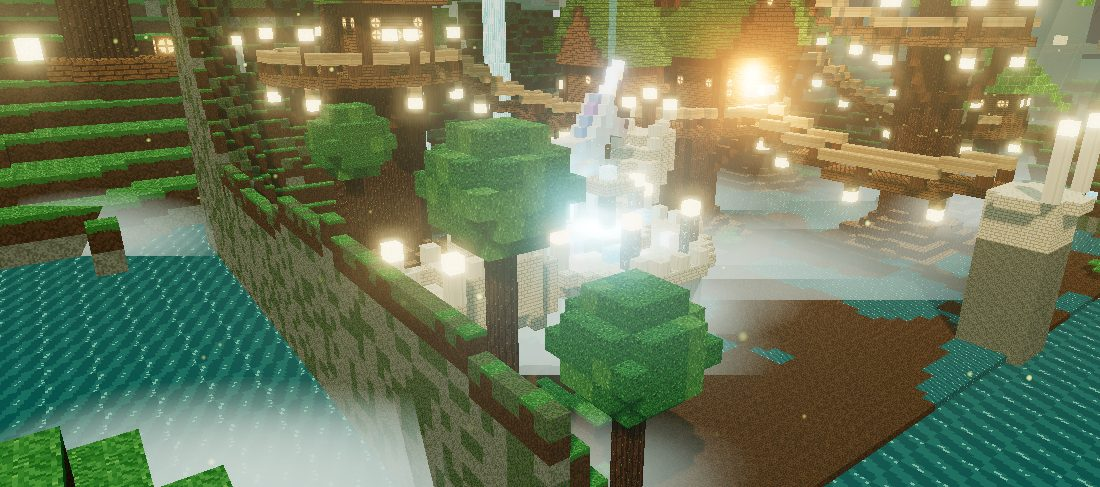
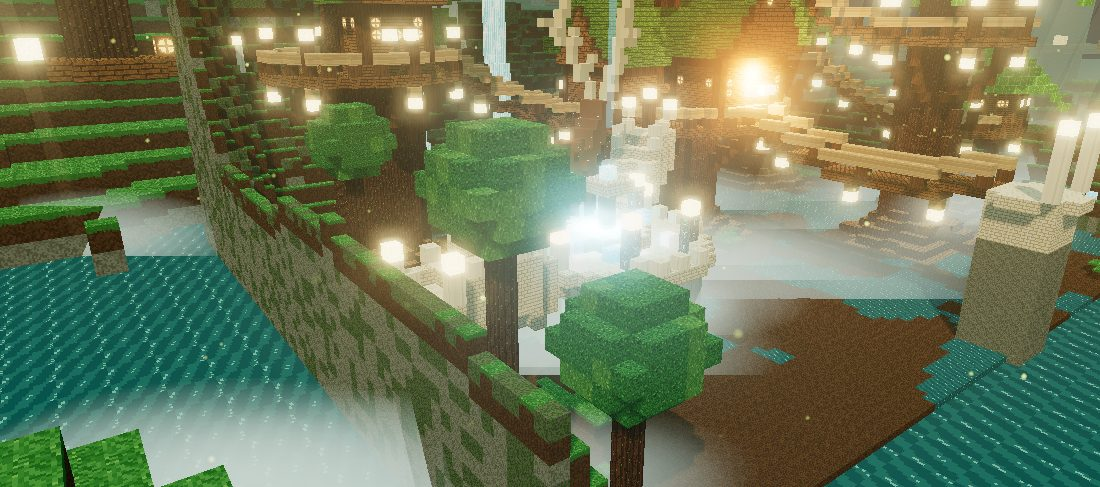
Eiswelt als Frostpalast, Frostfüchse und laufender Eisbär, Hirsch im Wald, kleinerer Adler
- Ice Region neu: Frostpalast mit vielen Spitztürmen, Spitzbogenfenstern und leuchtendem Tor in einer Halle aus riesigen Eissäulen mit Eiszapfen; Kristallkapelle und Eisgarten
- Frostfüchse rennen über den Platz, ein Eisbär läuft durch den Eisgarten
- Woodlands: Hirsch statt Einhorn am Mondbrunnen
- Sky Castle: Adler kleiner, kreist um das Schloss
- Bilder für Eis-, Wald- und Luftwelt erneuert

Claude-Session: https://claude.ai/code/session_01VyrGtGhpmUQ9uCwobRxi57

diff --git a/lernwelt/welten/eis.js b/lernwelt/welten/eis.js
@@ -1,141 +1,166 @@
-// Klasse 10 · Ice Region – verschneite Stadt im Tal: Frostturm, Laternenstadt, Kristallhöhle, Bogenbrücke über den gefrorenen Fluss; dahinter Berge und ein leuchtender Eisring am Himmel
-import { polarBear } from "./tiere.js";
+// Klasse 10 · Ice Region – Frostpalast in einer Halle aus riesigen Eissäulen: spitze Türme, Spitzbögen, Eiszapfen, leuchtendes Tor; Frostfüchse und ein Eisbär laufen herum
+import { polarBear, frostFox } from "./tiere.js";
 export function build(A){
-  const { rand, fbm, vn, pick, set, get, fill, walls, disk, ring, cyl, tube, ball, ellip, dome, cone, line, topAt, terrain, tex, P, noise, stripes, bricks, rings, topEdge, planks, glassT, windowT } = A;
+  const { rand, fbm, pick, set, get, fill, walls, disk, ring, cyl, tube, ball, ellip, dome, cone, line, topAt, terrain, tex, P, noise, stripes, bricks, rings, topEdge } = A;
   const T = {
-    snow: noise(["#F4F8FF","#EAF2FC","#FFFFFF","#E2ECF8"], 6, ["#D4E2F2"]), snowSide: topEdge(["#7A8698","#6C788A","#8692A4"], ["#F4F8FF","#EAF2FC"], 5),
-    rock: noise(["#7A8698","#6C788A","#8692A4","#606C7E"], 6, ["#98A4B4"]), rockS: noise(["#8692A4","#7A8698","#E8F0FA","#6C788A"], 6, ["#FFFFFF"]),
-    ice: noise(["#A8E0FF","#BFE8FF","#96D4F8","#CFEFFF"], 8, ["#FFFFFF"]), riverIce: tex(g=>{ for(let x=0;x<16;x++) for(let y=0;y<16;y++){ const v=Math.sin(x*.5+y*.9)+rand()*.5; P(g,x,y, v>1.2?"#E6F6FF":v>.2?"#9ACCEA":"#7AB4DA"); } }),
-    sbrick: bricks(["#B8BEC8","#AAB0BA","#C4CAD2"], "#6E7684"), sbrickD: bricks(["#5A6070","#4E5464","#646A7A"], "#2E3240"),
-    pillar: stripes(["#C8CED8","#B8BEC8","#D4DAE2"], true),
-    slate: tex(g=>{ for(let y=0;y<16;y++) for(let x=0;x<16;x++) P(g,x,y, y%4===3?"#1E2838":((x+Math.floor(y/4)*4)%8<4?"#34425A":"#2C3A50")); }),
-    snowRoof: tex(g=>{ for(let y=0;y<16;y++) for(let x=0;x<16;x++) P(g,x,y, y<10 ? pick(["#F4F8FF","#FFFFFF","#E6EEF8"]) : (y%3===0?"#1E2838":"#34425A")); }),
-    wood: planks(["#6A4A30","#7A5638","#5E4028"], "#3A2818"), timber: stripes(["#4A3420","#563C26","#40301C"], true),
-    win: windowT("#3A2818","#FFC860","#FFE09A"), winB: windowT("#2E3240","#FFD27A","#FFF0C0"),
-    glow: noise(["#8AF0FF","#5AD8FF","#BFF8FF"], 6, ["#FFFFFF"]), lamp: noise(["#FFE6A8","#FFD27A","#FFF2CC"]),
-    crystal: tex(g=>{ for(let x=0;x<16;x++) for(let y=0;y<16;y++){ const d=(x+y)%6; P(g,x,y, d===0?"#E6FFFF":d<3?"#7FE6FF":"#3AB4F0"); } }),
+    snow: noise(["#F4F8FF","#EAF2FC","#FFFFFF","#E2ECF8"], 6, ["#D4E2F2"]), snowSide: topEdge(["#9AB8D4","#8AAAC8","#A8C4DC"], ["#F4F8FF","#EAF2FC"], 5),
+    frost: noise(["#9AB8D4","#8AAAC8","#A8C4DC","#7E9EBE"], 8, ["#C8DCEE"]),
+    floorIce: tex(g=>{ for(let x=0;x<16;x++) for(let y=0;y<16;y++){ const v=Math.sin(x*.5+y*.9)+rand()*.4; P(g,x,y, (x===0||y===0) ? "#6AA8D8" : v>1.2?"#E6F8FF":v>.2?"#A8D8F4":"#8AC4EC"); } }),
+    iceBrick: bricks(["#BCDDF2","#AED4EE","#C8E4F6","#B4D8F0"], "#5A8ABE", 4, 8),
+    iceTrim: tex(g=>{ for(let y=0;y<16;y++) for(let x=0;x<16;x++) P(g,x,y, y<2||y>13 ? "#2E6AA8" : (x+y)%7===0 ? "#8AD0F4" : pick(["#4A8AC8","#5A9AD4","#3E7EBE"])); }),
+    carved: tex(g=>{ for(let y=0;y<16;y++) for(let x=0;x<16;x++){ const e=x<1||y<1||x>14||y>14, i=x>3&&x<12&&y>3&&y<12; P(g,x,y, e?"#7AAAD0":i?(Math.abs(x-7.5)+Math.abs(y-7.5)<4?"#F0FAFF":"#B8DCF2"):"#D8EEFA"); } }),
+    pillar: tex(g=>{ for(let x=0;x<16;x++){ const c=pick(["#3A8AD8","#4AA0E6","#2A70C0","#5AB8F0","#6ACCF8"]); for(let y=0;y<16;y++) P(g,x,y, rand()<.03 ? "#E6FAFF" : (x%5===2 ? "#9AE6FF" : c)); } }),
+    pillarTop: rings(["#BFF2FF","#6ACCF8","#3A8AD8","#2A70C0"]),
+    spire: tex(g=>{ for(let y=0;y<16;y++) for(let x=0;x<16;x++) P(g,x,y, x%4===0 ? "#E8F8FF" : pick(["#A8DAF6","#9ACEF0","#B8E4FA"])); }),
+    win: tex(g=>{ for(let x=0;x<16;x++) for(let y=0;y<16;y++){ const fr = x<2||x>13||y>14||x===7||x===8||(y<6 && Math.abs(x-7.5)>y*1.3+1); P(g,x,y, fr ? "#2A5A98" : pick(["#8AF0FF","#6AE0FF","#BFF8FF"])); } }),
+    door: tex(g=>{ for(let x=0;x<16;x++) for(let y=0;y<16;y++){ const v=y/16; P(g,x,y, rand()<.1 ? "#FFFFFF" : v<.4?"#DFFCFF":v<.75?"#9AEEFF":"#5AD4FF"); } }),
+    dark: noise(["#1E3E6A","#24487A","#1A365E"], 6, ["#3A6AA0"]),
+    icicle: noise(["#DFF8FF","#BFEFFF","#FFFFFF"], 0), crystal: tex(g=>{ for(let x=0;x<16;x++) for(let y=0;y<16;y++){ const d=(x+y)%6; P(g,x,y, d===0?"#E6FFFF":d<3?"#7FE6FF":"#3AB4F0"); } }),
     violet: tex(g=>{ for(let x=0;x<16;x++) for(let y=0;y<16;y++){ const d=(x+y)%6; P(g,x,y, d===0?"#F2E6FF":d<3?"#C8A0FF":"#9A6AF0"); } }),
-    ringT: tex(g=>{ for(let x=0;x<16;x++) for(let y=0;y<16;y++) P(g,x,y, (x===7||x===8) && y%5<3 ? "#E6FFFF" : pick(["#5AC8F0","#4AB4E8","#6AD4F8"])); }),
-    gold: noise(["#E8C24A","#F5D46A","#D8AE30"]), fur: noise(["#FAFAF4","#F0F0E8","#FFFFFF"]), black: noise(["#1A1E26","#22262E"]), orange: noise(["#FF9A2A","#FFAA40"]),
-    pine: noise(["#2E5A4A","#365E50","#264E40"], 12, ["#F4F8FF","#EAF2FC"]), log: stripes(["#5A4230","#4E3828","#664A36"], true), woolR: noise(["#B83A3A","#C84A4A"])
+    lamp: noise(["#DFFCFF","#BFF4FF","#FFFFFF"]), silver: noise(["#E8F0F8","#D0DCE8","#F4F8FC"])
   };
   const blocks = {
-    snow:{side:T.snowSide, top:T.snow, bottom:T.rock}, snowB:{side:T.snow}, rock:{side:T.rock}, rockS:{side:T.rockS, top:T.snow}, ice:{side:T.ice, alpha:.82}, riverIce:{side:T.riverIce, em:.12},
-    sbrick:{side:T.sbrick}, sbrickD:{side:T.sbrickD}, pillar:{side:T.pillar, top:T.sbrick}, slate:{side:T.slate}, snowRoof:{side:T.snowRoof, top:T.snow},
-    wood:{side:T.wood}, timber:{side:T.timber}, win:{side:T.win, em:.95}, winB:{side:T.winB, em:1.0}, glow:{side:T.glow, em:1.1}, lamp:{side:T.lamp, em:1.25},
-    crystal:{side:T.crystal, em:1.0}, violet:{side:T.violet, em:1.0}, ringB:{side:T.ringT, em:1.1}, gold:{side:T.gold, em:.3},
-    fur:{side:T.fur}, black:{side:T.black}, orange:{side:T.orange}, pine:{side:T.pine}, log:{side:T.log}, woolR:{side:T.woolR}
+    snow:{side:T.snowSide, top:T.snow, bottom:T.frost}, snowB:{side:T.snow}, frost:{side:T.frost}, floorIce:{side:T.frost, top:T.floorIce, em:.08},
+    iceBrick:{side:T.iceBrick}, iceTrim:{side:T.iceTrim}, carved:{side:T.carved, top:T.iceBrick}, pillar:{side:T.pillar, top:T.pillarTop, em:.38},
+    spire:{side:T.spire, top:T.snow}, win:{side:T.win, em:.9}, door:{side:T.door, em:.7}, dark:{side:T.dark},
+    icicle:{side:T.icicle, alpha:.85, em:.35}, crystal:{side:T.crystal, em:1.0}, violet:{side:T.violet, em:1.0}, lamp:{side:T.lamp, em:1.3}, silver:{side:T.silver}
   };
-  const W=92, D=70, RIV=4;
-  const riverX = z => 46 + Math.sin(z*.07)*6;
-  const H = (x,z) => { let h = 8 + fbm(x*.08,z*.08)*3;
-    h += Math.max(0, 14-z)*1.5*(.6+fbm(x*.15,2)); h += Math.max(0, 9-x)*2 + Math.max(0, x-(W-10))*2;
-    const rd = Math.abs(x-riverX(z)); if(rd<6) h = Math.min(h, RIV+1 + Math.max(0,rd-4)*2); return h; };
-  terrain(W, D, H, (x,y,z,h) => y===h-1 ? (h<=RIV+1 ? "riverIce" : "snow") : (y>h-3 ? "snowB" : (rand()<.3?"rockS":"rock")));
+  const W=92, D=72, G=5;  // G: Boden
+  // Boden: Schnee, eisiger Weg zum Tor, Schneewehen an den Rändern, hinten Eisklippen
+  terrain(W, D, (x,z)=> { let h = G + Math.max(0, fbm(x*.1,z*.1)-.62)*10; h += Math.max(0, 6-z)*6*(.6+fbm(x*.1,3)); h += Math.max(0, Math.max(3-x, x-(W-4)))*4; return h; },
+    (x,y,z,h) => y===h-1 ? ((Math.abs(x-46)<=6 && z>36 && h<=G+1) ? "floorIce" : "snow") : (y>h-3 ? "snowB" : "frost"));
 
   // ---------- Bausteine ----------
-  // Haus mit verschneitem Steildach, Fachwerk und vielen warmen Fenstern; First entlang x
-  const house = (x,y,z,w,d,h,opt={}) => { const hw=Math.floor(w/2), hd=Math.floor(d/2), wall = opt.stone ? "sbrick" : "wood";
-    for(let a=-hw-1;a<=hw+1;a++) for(let c=-hd-1;c<=hd+1;c++){ const t=topAt(x+a,z+c,40); for(let yy=t+1;yy<y;yy++) set(x+a,yy,z+c,"sbrickD"); }
-    fill(x-hw,y,z-hd,x+hw,y,z+hd,"sbrickD");
-    walls(x-hw,y+1,z-hd,x+hw,y+h,z+hd,(a,b,c)=> ((a===x-hw||a===x+hw)&&(c===z-hd||c===z+hd)) ? "timber" : (b===y+h ? "timber" : ((b-y)%3===2 && (a+c)%2===0 ? "win" : wall)));
-    fill(x,y+1,z+hd,x,y+2,z+hd,"timber"); set(x-1,y+3,z+hd+1,"lamp");
-    const R = hd+2; for(let i=0;i<=R;i++){ const ww=R-i; fill(x-hw-1,y+h+1+i,z-ww,x+hw+1,y+h+1+i,z-ww, i>R-2?"snowB":"snowRoof"); fill(x-hw-1,y+h+1+i,z+ww,x+hw+1,y+h+1+i,z+ww, i>R-2?"snowB":"snowRoof");
-      if(ww>0) for(const a of [-hw,hw]) fill(x+a,y+h+1+i,z-ww+1,x+a,y+h+1+i,z+ww-1, i===1&&ww>1 ? "win" : wall); }
-    fill(x+hw-2,y+h+R-1,z-1,x+hw-2,y+h+R+2,z-1,"sbrickD"); set(x+hw-2,y+h+R+3,z-1,"snowB");
-    return y+h+R+1; };
-  // runder Turm mit Fensterringen, Balkon und spitzem Schieferdach
-  const tower = (x,y,z,r,h,roof,opt={}) => { cyl(x,y,z,r,h,(a,b,c)=> ((b-y)%5===3 && (Math.round(Math.atan2(c-z,a-x)*4)%2===0)) ? "winB" : "sbrick");
-    for(let k=10;k<h;k+=opt.bal||14){ ring(x,y+k,z,r+1.2,"sbrickD"); ring(x,y+k+1,z,r+1.2,(a,b,c)=>((a+c)%2?"pillar":null)); }
-    ring(x,y+h,z,r+1,"sbrickD"); cone(x,y+h+1,z,r+1.6,roof,(a,b,c)=> (b-(y+h+1))%4===0 ? "snowB" : "slate"); set(x,y+h+roof+1,z,"gold"); set(x,y+h+roof+2,z,"gold"); return y+h+roof+2; };
-  // Bogenbrücke aus Stein
-  const bridgeX = (x0,x1,z,y,w=2) => { const n=x1-x0; for(let i=0;i<=n;i++){ const f=i/n, x=x0+i, yy = Math.round(y + Math.sin(f*Math.PI)*3);
-      for(let c=-w;c<=w;c++) set(x,yy,z+c, Math.abs(c)===w ? "sbrickD" : "sbrick"); set(x,yy+1,z-w,(i%2)?"pillar":"sbrickD"); set(x,yy+1,z+w,(i%2)?"pillar":"sbrickD");
-      const under = yy - 1 - Math.round(Math.sin(f*Math.PI)*3.5); for(let k=under;k<yy;k++) for(let c=-w;c<=w;c++) set(x,k,z+c,"sbrick");
-      if(i%6===0 && i>0 && i<n){ fill(x,yy+1,z-w,x,yy+3,z-w,"pillar"); set(x,yy+4,z-w,"lamp"); fill(x,yy+1,z+w,x,yy+3,z+w,"pillar"); set(x,yy+4,z+w,"lamp"); } } };
+  // spitzes Türmchen (Fiale): schmaler Kegel mit heller Spitze
+  const pinnacle = (x,y,z,h,r=1) => { for(let i=0;i<h;i++){ const rr=r*(1-i/h); if(rr>=.5) disk(x,y+i,z,rr,"spire"); else set(x,y+i,z,"spire"); } set(x,y+h,z,"icicle"); set(x,y+h+1,z,"lamp"); };
+  // Turm mit spitzem Helm, Spitzbogenfenstern, Zinnenkranz
+  const spireTower = (x,y,z,r,h,roof) => { cyl(x,y,z,r,h,(a,b,c)=> ((b-y)%6>=2 && (b-y)%6<=4 && Math.abs(((Math.atan2(c-z,a-x)+Math.PI)*8/Math.PI)%2-1)<.5) ? "win" : ((b-y)%6===0 ? "iceTrim" : "iceBrick"));
+    ring(x,y+h,z,r+1,"carved"); for(let i=0;i<10;i++){ const an=i/10*Math.PI*2; pinnacle(Math.round(x+Math.cos(an)*(r+1)),y+h+1,Math.round(z+Math.sin(an)*(r+1)),3,.6); }
+    cone(x,y+h+1,z,r+.4,roof,(a,b,c)=> (b-y-h)%5===0 ? "iceTrim" : "spire"); pinnacle(x,y+h+roof,z,4,.6); };
+  // Spitzbogen-Öffnung in einer Wand, die nach +z zeigt
+  const gothic = (x,y,z,w,h,fillT) => { const hw=w/2; for(let a=-Math.floor(hw);a<=Math.floor(hw);a++) for(let b=0;b<h+w;b++){ const top = h + (hw-Math.abs(a))*1.6; if(b<top){ set(x+a,y+b,z,fillT); } } };
+  // Eiszapfen
+  const icicles = (x0,x1,y,z0,z1,maxL) => { for(let x=x0;x<=x1;x++) for(let z=z0;z<=z1;z++){ if(rand()<.45){ const l=1+Math.floor(rand()*maxL); for(let k=1;k<=l;k++) if(!get(x,y-k,z)) set(x,y-k,z,"icicle"); } } };
+  // riesige Eissäule mit Sockel, Kapitell, Schnee und Eiszapfen
+  const bigPillar = (x,z,r,h) => { const y0=topAt(x,z,40)+1; cyl(x,y0,z,r+1.5,3,"carved"); ring(x,y0+3,z,r+1,"iceTrim");
+    for(let y=y0+3;y<y0+h;y++){ const rr = r + (y%14===0 ? .8 : 0); disk(x,y,z,rr,"pillar"); }
+    for(const k of [Math.round(h*.55), h]){ const cy=y0+k; cyl(x,cy,z,r+2,2,"carved"); ring(x,cy+2,z,r+2.6,"iceTrim"); disk(x,cy+3,z,r+2.4,"snowB"); for(let i=0;i<14;i++){ const an=i/14*Math.PI*2, ix=Math.round(x+Math.cos(an)*(r+2.6)), iz=Math.round(z+Math.sin(an)*(r+2.6)); const l=2+Math.floor(rand()*5); for(let q=1;q<=l;q++) set(ix,cy+1-q,iz,"icicle"); } }
+    return y0+h+3; };
 
   const S = {
-    grammar:   {x:72, z:28, col:0x7FE6FF, ort:"Frost Citadel"},
-    vocabulary:{x:16, z:28, col:0xC8A0FF, ort:"Crystal Caves"},
-    country:   {x:26, z:54, col:0xFFC24A, ort:"Lantern Town"}
+    grammar:   {x:46, z:22, col:0x7FE6FF, ort:"Frost Palace"},
+    vocabulary:{x:18, z:50, col:0xC8A0FF, ort:"Crystal Chapel"},
+    country:   {x:74, z:52, col:0xBFF4FF, ort:"Ice Garden"}
   };
 
-  // ---------- Grammar: Frostzitadelle mit hohem Turm (rechtes Ufer) ----------
-  { const {x,z} = S.grammar, y = Math.round(H(x,z));
-    fill(x-10,y-3,z-8,x+10,y,z+8,"sbrickD"); for(let a=-10;a<=10;a++) for(let c=-8;c<=8;c++) if(Math.abs(a)===10||Math.abs(c)===8) set(x+a,y+1,z+c,(a+c)%2?"pillar":null);
-    const top = tower(x,y+1,z,5,40,14,{bal:12});
-    tower(x-8,y+1,z+5,2.6,22,9); tower(x+8,y+1,z+4,2.6,26,10); tower(x+6,y+1,z-6,2.2,18,8);
-    house(x-4,y+1,z+9,9,6,6,{stone:true});
-    for(let a=-3;a<=3;a++) for(let b=0;b<7;b++) if(b<5 || Math.hypot(a,b-5)<3) set(x+a,y+1+b,z+5, b<5 && Math.abs(a)<2 ? "winB" : "sbrick");
-    S.grammar.top=[x, y+34, z+5]; S.grammar.base=y+18; S.grammar.cam={dist:66, up:.18, lookY:y+24, side:-.35}; }
+  // ---------- Grammar: Frostpalast ----------
+  { const x=46, z=22, y=G;
+    // Terrasse mit Bogengang vorne und Treppe
+    fill(x-22,y,z-12,x+22,y+4,z+14,"iceBrick"); fill(x-22,y+4,z-12,x+22,y+4,z+14,"carved");
+    for(let a=-21;a<=21;a+=4){ if(Math.abs(a)<6) continue; gothic(x+a,y,z+14,2,2,"dark"); set(x+a,y+4,z+15,"iceTrim"); }
+    for(let a=-22;a<=22;a++) if(a%2===0) set(x+a,y+5,z+14,"carved");
+    for(let s=0;s<6;s++) fill(x-6,y+s-1,z+20-s,x+6,y+s-1,z+20-s,"carved"); for(let s=0;s<6;s++){ set(x-7,y+s,z+20-s,"iceTrim"); set(x+7,y+s,z+20-s,"iceTrim"); }
+    for(const a of [-7,7]){ fill(x+a,y,z+21,x+a,y+3,z+21,"carved"); set(x+a,y+4,z+21,"lamp"); }
+    // Untergeschoss mit Spitzbogenfenstern
+    const b=y+5; walls(x-18,b,z-8,x+18,b+12,z+10,(a,yy,c)=> (yy===b+12 ? "iceTrim" : "iceBrick")); fill(x-17,b,z-7,x+17,b+11,z+9,"iceBrick");
+    for(let a=-15;a<=15;a+=5){ if(Math.abs(a)<5) continue; gothic(x+a,b+3,z+10,2,4,"win"); fill(x+a-2,b+1,z+11,x+a+2,b+1,z+11,"carved"); }
+    // großes Tor mit Spitzgiebel
+    fill(x-6,b,z+11,x+6,b+15,z+12,"iceBrick"); gothic(x,b,z+12,6,8,"door"); gothic(x,b,z+11,6,8,"door");
+    for(let i=0;i<10;i++){ const w=7-i*.7; fill(Math.round(x-w),b+15+i,z+11,Math.round(x+w),b+15+i,z+12, i%3===0?"iceTrim":"spire"); }
+    pinnacle(x,b+25,z+12,7,.8); pinnacle(x-7,b+15,z+12,6,.8); pinnacle(x+7,b+15,z+12,6,.8);
+    gothic(x,b+16,z+13,2,2,"win");
+    icicles(x-18,x+18,b+12,z+11,z+11,4); icicles(x-6,x+6,b+15,z+13,z+13,3);
+    // Mittelgeschoss mit Ecktürmchen
+    const m=b+13; fill(x-12,m,z-6,x+12,m+11,z+6,"iceBrick"); for(let a=-10;a<=10;a+=4) gothic(x+a,m+3,z+7,2,4,"win"); fill(x-13,m+11,z-7,x+13,m+11,z+7,"iceTrim");
+    for(let a=-13;a<=13;a+=2) set(x+a,m+12,z+7,"carved");
+    for(const [a,c] of [[-12,-6],[12,-6],[-12,6],[12,6]]){ cyl(x+a,m,z+c,1.6,14,"iceBrick"); pinnacle(x+a,m+14,z+c,9,1.6); }
+    icicles(x-13,x+13,m+11,z+7,z+7,3);
+    // Hauptturm mit hohem Helm und Fialenkranz
+    const t=m+12; fill(x-6,t,z-4,x+6,t+12,z+4,"iceBrick"); for(const a of [-3,3]) gothic(x+a,t+3,z+5,2,5,"win"); gothic(x,t+2,z+5,2,7,"win");
+    for(const [a,c] of [[-6,-4],[6,-4],[-6,4],[6,4]]) pinnacle(x+a,t+12,z+c,7,1.2);
+    for(let i=0;i<24;i++){ const w=5.6*(1-i/24); fill(Math.round(x-w),t+13+i,Math.round(z-w*.8),Math.round(x+w),t+13+i,Math.round(z+w*.8), i%4===0?"iceTrim":"spire"); }
+    pinnacle(x,t+37,z,6,.6);
+    // Seitentürme
+    spireTower(x-19,b,z-2,3.2,22,16); spireTower(x+19,b,z-2,3.2,22,16);
+    spireTower(x-25,y,z+6,2.4,16,12); spireTower(x+25,y,z+6,2.4,16,12);
+    spireTower(x-10,m,z-9,2.2,14,12); spireTower(x+10,m,z-9,2.2,14,12);
+    // Fialen auf den Dachkanten
+    for(let a=-17;a<=17;a+=5) pinnacle(x+a,b+13,z-8,4,.6);
+    for(let a=-16;a<=16;a+=4){ if(Math.abs(a)<8) continue; pinnacle(x+a,b+13,z+10,5,.7); }
+    for(let a=-9;a<=9;a+=6) pinnacle(x+a,m+12,z+7,4,.6);
+    for(const a of [-22,-14,14,22]) pinnacle(x+a,y+5,z+14,4,.6);
+    for(const [a,c] of [[-18,-8],[18,-8],[-18,10],[18,10]]) pinnacle(x+a,b+13,z+c,8,1.2);
+    S.grammar.top=[x, t+8, z+6]; S.grammar.base=y+20; S.grammar.cam={dist:72, up:.12, lookY:y+26, side:0}; }
 
-  // ---------- Vocabulary: Kristallhöhle im linken Hang ----------
-  { const {x,z} = S.vocabulary, y = Math.round(H(x,z));
-    ellip(x-2,y+4,z-2,9,9,8,"rock"); ellip(x-2,y+4,z-2,6.5,6.5,5.5,null);
-    for(let a=-9;a<=9;a++) for(let c=-9;c<=9;c++){ const t=topAt(x-2+a,z-2+c,y+16); if(t>=y && !get(x-2+a,t+1,z-2+c) && Math.hypot(a,c)<9) set(x-2+a,t+1,z-2+c,"snowB"); }
-    for(let a=-5;a<=5;a++) for(let hh=0;hh<=7;hh++) if(Math.hypot(a*.85,hh)<5.6) for(let c=2;c<=12;c++) set(x-2+a,y+hh,z-2+c,null);
-    for(const [cx,cz,t] of [[x-5,z-5,"crystal"],[x+1,z-6,"violet"],[x-3,z-1,"violet"],[x+2,z-3,"crystal"],[x-7,z-2,"crystal"]]) for(let k=0;k<4+Math.floor(rand()*3);k++) set(cx+(k%2),y+k,cz,t);
-    for(const a of [-7,5]) for(let k=0;k<10;k++) disk(x-2+a,y+k,z+8,Math.max(0,1.3-k*.14),k%3?"crystal":"violet");
-    for(let a=-4;a<=4;a+=2) set(x-2+a,y+7,z+7,"ice");
-    for(const [cx,cz] of [[x+6,z+8],[x-10,z+9],[x+7,z+2]]) for(let k=0;k<4;k++) set(cx,y+k,cz, k%2?"violet":"crystal");
-    S.vocabulary.top=[x-2,y+17,z-2]; S.vocabulary.base=y+5; S.vocabulary.cam={pos:[40,y+24,66], look:[21,y+4,23]}; S.vocabulary.clear=[[40,y+24,66],[12,y+4,30]]; }
+  // ---------- Riesige Eissäulen und Bögen (wie eine Halle) ----------
+  const cols = [[6,12],[86,12],[6,40],[86,40],[2,66],[90,66],[20,30],[72,30]];
+  const colTops = cols.map(([x,z],i)=> bigPillar(x,z, i>=6 ? 2.6 : 3.4, i>=6 ? 46 : 62));
+  // Spitzbögen zwischen den Säulen entlang jeder Seite
+  for(const side of [[0,2,4],[1,3,5]]) for(let k=0;k<2;k++){ const [x0,z0]=cols[side[k]], [x1,z1]=cols[side[k+1]], y=G+52;
+    for(let i=0;i<=40;i++){ const f=i/40, x=x0+(x1-x0)*f, z=z0+(z1-z0)*f, yy = y + Math.round((1-Math.abs(f-.5)*2)**.6*14); fill(Math.round(x)-1,yy,Math.round(z),Math.round(x)+1,yy+1,Math.round(z),"carved"); if(i%3===0) for(let q=1;q<=1+Math.floor(rand()*4);q++) set(Math.round(x),yy-q,Math.round(z),"icicle"); } }
 
-  // ---------- Country & people: Laternenstadt am linken Ufer vorne ----------
-  { const {x,z} = S.country, y0 = Math.round(H(x,z));
-    house(x-7,y0,z-4,9,7,6); house(x+5,y0,z-5,7,6,8); house(x-3,y0,z+6,7,6,5); house(x+8,y0+1,z+5,5,6,6,{stone:true});
-    tower(x-14,y0,z+2,2.2,16,8);
-    for(const [lx,lz] of [[x-1,z],[x+3,z+1],[x-9,z+3],[x+12,z-1],[x+2,z+11]]){ const t=topAt(lx,lz,40)+1; fill(lx,t,lz,lx,t+3,lz,"timber"); set(lx,t+4,lz,"lamp"); }
-    { const t=topAt(x+1,z+2,40)+1; fill(x-1,t,z+2,x+3,t,z+2,"wood"); set(x,t+1,z+2,"woolR"); set(x+2,t+1,z+2,"gold"); }
-    S.country.top=[x+2, y0+13, z+2]; S.country.base=y0+6; S.country.cam={dist:46, up:.36, side:.2}; }
+  // ---------- Vocabulary: Kristallkapelle links ----------
+  { const {x,z} = S.vocabulary, y=G;
+    fill(x-6,y,z-5,x+6,y,z+5,"carved"); walls(x-5,y+1,z-4,x+5,y+9,z+4,(a,b,c)=> b===y+9 ? "iceTrim" : "iceBrick"); fill(x-4,y+1,z-3,x+4,y+8,z+3,null);
+    gothic(x,y+1,z+4,2,4,"door"); for(const a of [-3,3]) gothic(x+a,y+3,z+4,0,3,"win"); for(const c of [-2,2]){ gothic(x-5,y+3,z+c,0,4,"win"); gothic(x+5,y+3,z+c,0,4,"win"); }
+    for(let i=0;i<8;i++){ const w=6-i*.75; fill(x-5,y+10+i,Math.round(z-w),x+5,y+10+i,Math.round(z+w), i%3===0?"iceTrim":"spire"); }
+    pinnacle(x,y+18,z+4,5,.8); pinnacle(x,y+17,z,10,1.4);
+    for(const [a,c] of [[-5,-4],[5,-4],[-5,4],[5,4]]) pinnacle(x+a,y+10,z+c,6,.8);
+    for(const [cx,cz,t] of [[x-8,z+6,"crystal"],[x+8,z+7,"violet"],[x-9,z-2,"violet"],[x+9,z-3,"crystal"],[x-3,z+9,"crystal"],[x+4,z+9,"violet"]]) for(let k=0;k<3+Math.floor(rand()*4);k++) set(cx+(k%2),y+k,cz+(k===2?1:0),t);
+    icicles(x-5,x+5,y+9,z+5,z+5,2);
+    S.vocabulary.top=[x, y+24, z]; S.vocabulary.base=y+8; S.vocabulary.cam={pos:[40,26,86], look:[28,13,44]}; }
 
-  // ---------- Brücke vorne über den Fluss, Aquädukt hinten, Häuser am rechten Ufer ----------
-  bridgeX(36,57,50,RIV+5);
-  { const z=11, y=24; for(let x=8;x<=W-8;x++){ fill(x,y,z-1,x,y,z+1,"sbrick"); set(x,y+1,z-1,"sbrickD"); set(x,y+1,z+1,"sbrickD");
-      if((x-8)%8===0){ const t=topAt(x,z,y-1); for(let yy=t+1;yy<y;yy++) fill(x,yy,z-1,x+1,yy,z+1,"pillar"); }
-      else { const ph=((x-8)%8)/8, dip=Math.round(Math.sin(ph*Math.PI)*3); for(let yy=y-1;yy>=y-1-Math.max(0,1-dip);yy--) fill(x,yy,z-1,x,yy,z+1,"sbrick"); } } }
-  for(const [hx,hz,w,d,h] of [[60,52,7,6,6],[70,58,7,6,5],[84,50,6,6,7],[58,40,5,5,5],[86,20,6,5,8]]){ const t=Math.round(H(hx,hz)); house(hx,t,hz,w,d,h,{stone:hx>80}); }
-  for(const [hx,hz] of [[30,36],[36,18],[24,14],[52,20]]){ const t=Math.round(H(hx,hz)); if(t>RIV+2) house(hx,t,hz,7,6,6); }
-  // Pinguine auf dem Eis
-  const peng = (px,py,pz) => { set(px,py,pz,"black"); set(px,py+1,pz,"black"); set(px,py+2,pz,"black"); set(px,py,pz+1,"fur"); set(px,py+1,pz+1,"fur"); set(px,py+2,pz+1,"orange"); };
-  for(const [px,pz] of [[44,60],[46,62],[42,63],[49,64]]) peng(Math.round(riverX(pz))+(px-46),RIV+1,pz);
-  // Tannen
-  const free = (x,z) => Object.values(S).every(s=>Math.hypot(s.x-x,s.z-z)>13) && Math.abs(x-riverX(z))>7 && !(z>40&&x>32&&x<62) && !(z>58);
-  for(let i=0;i<120;i++){ const x=Math.floor(rand()*W), z=Math.floor(rand()*D); if(!free(x,z)) continue; const t=topAt(x,z,60)+1; if(t<=RIV+2 || get(x,t,z)) continue;
-    const r=rand(); if(r<.6){ const h=5+Math.floor(rand()*6); fill(x,t,z,x,t+1,z,"log"); for(let k=0;k<h;k++) disk(x,t+2+k,z,Math.max(0,(h-k)*.42),"pine"); set(x,t+2+h,z,"snowB"); }
-    else if(r<.75) set(x,t,z, rand()<.5?"crystal":"violet"); else if(r<.85){ fill(x,t,z,x,t+2,z,"timber"); set(x,t+3,z,"lamp"); } else ball(x,t,z,1.3,"snowB"); }
+  // ---------- Country & people: Eisgarten mit gefrorenem Brunnen und Eisfiguren ----------
+  { const {x,z} = S.country, y=G;
+    disk(x,y-1,z,9,"floorIce"); ring(x,y,z,9,(a,b,c)=>((a+c)%3===0?"carved":null));
+    ring(x,y,z,3.4,"carved"); ring(x,y+1,z,3.4,"iceTrim"); disk(x,y,z,2.4,"floorIce"); cyl(x,y,z,1,6,"pillar"); disk(x,y+6,z,2.2,"carved"); ring(x,y+7,z,2.2,"iceTrim");
+    cyl(x,y+7,z,.6,4,"pillar"); disk(x,y+11,z,1.2,"carved"); set(x,y+12,z,"lamp"); icicles(x-2,x+2,y+6,z-2,z+2,3);
+    // Eisfiguren: Schwan, Stern, Kristallbaum
+    { const sx=x-6, sz=z-5; ellip(sx,y+2,sz,2,1.2,1.2,"icicle"); line(sx+1,y+3,sz,sx+2,y+6,sz,"icicle"); set(sx+3,y+6,sz,"icicle"); fill(sx-1,y,sz-1,sx+1,y,sz+1,"carved"); }
+    { const sx=x+6, sz=z-5; fill(sx-1,y,sz-1,sx+1,y,sz+1,"carved"); fill(sx,y+1,sz,sx,y+7,sz,"pillar"); for(const [a,b] of [[-2,4],[2,4],[-1,6],[1,6],[-2,2],[2,2]]) line(sx,y+b,sz,sx+a,y+b+2,sz,"crystal"); set(sx,y+8,sz,"lamp"); }
+    for(const [lx,lz] of [[x-8,z+4],[x+8,z+4],[x,z-9],[x-6,z+8],[x+6,z+8]]){ fill(lx,y,lz,lx,y+3,lz,"silver"); set(lx,y+4,lz,"lamp"); }
+    S.country.top=[x, y+16, z]; S.country.base=y+5; S.country.cam={pos:[56,24,86], look:[84,10,57]}; }
 
-  A.clearView(...S.vocabulary.clear, 5, ["pine","log","snowB","lamp","timber"]);
-  // ---------- Landschaft bis zum Horizont: Berge, weitere Türme, Eisring am Himmel ----------
-  const F = A.far; F.cell = 4;
+  // Schneehaufen, Kristalle, Eisspitzen auf dem Platz
+  const busy = (x,z) => (x>20 && x<72 && z<42) || Math.hypot(x-S.vocabulary.x,z-S.vocabulary.z)<11 || Math.hypot(x-S.country.x,z-S.country.z)<11 || Math.abs(x-46)<8 || cols.some(([cx,cz])=>Math.hypot(cx-x,cz-z)<6);
+  for(let i=0;i<70;i++){ const x=3+Math.floor(rand()*(W-6)), z=8+Math.floor(rand()*(D-9)); if(busy(x,z)) continue; const t=topAt(x,z,40)+1;
+    const r=rand(); if(r<.35) ellip(x,t-1,z,1.5+rand()*1.5,1.2,1.5+rand(),"snowB"); else if(r<.6){ const h=3+Math.floor(rand()*6); for(let k=0;k<h;k++) disk(x,t+k,z,Math.max(0,(h-k)*.25),"icicle"); } else if(r<.75) set(x,t,z, rand()<.5?"crystal":"violet"); else if(r<.85){ fill(x,t,z,x,t+3,z,"silver"); set(x,t+4,z,"lamp"); } }
+
+  // ---------- Landschaft bis zum Horizont: Eisklippen, weitere Säulenreihen, ferne Spitztürme ----------
+  const F = A.far; F.cell = 3;
   const away = (x,z) => Math.hypot(Math.max(0,-x,x-W), Math.max(0,-z,z-D));
-  const peaks = [[-64,-86,62,84],[156,-96,66,96],[46,-128,40,46],[-150,-30,52,66],[244,-34,56,72],[-30,-210,70,124],[124,-220,70,136],[-130,-150,60,100],[230,-160,60,110]];
-  const fh = (x,z) => { const rd=Math.abs(x-riverX(z)); let h = 7 + fbm(x*.04,z*.04)*5 + Math.max(0,away(x,z)-10)*.12;
-    for(const [px,pz,r,ph] of peaks){ const d=Math.hypot(x-px,z-pz)/r; if(d<1){ const v=ph*Math.pow(1-d,1.25)*(.8+.4*fbm(x*.05,z*.05)); if(v>h) h=v; } }
-    if(rd<10 && z>-70 && h<20) return RIV+1; return h; };
-  A.farTerrain({ x0:-220, x1:W+220, z0:-240, z1:D+70, base:0, skip:(x,z)=> (x>-1 && x<W+1 && z>-1 && z<D+1),
-    h: fh, top:(x,z,y,hc)=> hc*4<=RIV+4 ? "riverIce" : (y*4 > 30 || rand()<.7 ? "snow" : "rockS"), fill:(x,z,y,hc)=> (y*4 > 50 || rand()<.4) ? "rockS" : "rock" });
-  const fset = (x,y,z,t) => F.set(Math.floor(x/4),Math.floor(y/4),Math.floor(z/4),t);
-  // ferne Türme mit Lichtern
-  for(const [tx,tz,hh] of [[-90,30,40],[190,30,44],[4,-90,64],[96,-96,72]]){ const b=fh(tx,tz); for(let y=b;y<b+hh;y+=4) fset(tx,y,tz, (y/4|0)%3===1 ? "winB" : "sbrick"); fset(tx,b+hh,tz,"slate"); fset(tx,b+hh+4,tz,"slate"); fset(tx,b+hh+8,tz,"gold"); }
-  // Eisring
-  { const cx=46, cy=38, cz=-170; for(const R of [54,58]) for(let a=0;a<Math.PI*2;a+=.012){ const x=cx+Math.cos(a)*R, y=cy+Math.sin(a)*R; if(y<0) continue; fset(x,y,cz,"ringB"); if(R===58 && Math.floor(a*24)%6===0) fset(x,y,cz-4,"glow"); } }
+  const fh = (x,z) => { let h = G + fbm(x*.04,z*.04)*4; if(z<0) h += Math.min(90, -z*.9)*(.6+.6*fbm(x*.03,z*.03)); h += Math.max(0, away(x,z)-30)*.5*(.6+fbm(x*.05,z*.05)); return h; };
+  A.farTerrain({ x0:-120, x1:W+120, z0:-130, z1:D+50, base:0, skip:(x,z)=> (x>-1 && x<W+1 && z>-1 && z<D+1) || (fh(x,z)<G+3 && away(x,z)<40),
+    h: fh, top:(x,z,y,hc)=> y*3 > 40 ? (rand()<.5?"snowB":"frost") : "snowB", fill:(x,z,y,hc)=> rand()<.04 ? "crystal" : "frost" });
+  const fset = (x,y,z,t) => F.set(Math.floor(x/3),Math.floor(y/3),Math.floor(z/3),t);
+  // Säulenreihen setzen sich in der Ferne fort
+  for(const px of [-26,-58,W+26,W+58]) for(let pz=-40; pz<=D+40; pz+=28){ const b=fh(px,pz); for(let y=b;y<b+80;y+=3) for(const [a,c] of [[0,0],[3,0],[0,3],[3,3]]) fset(px+a,y,pz+c,"pillar"); for(const [a,c] of [[-3,0],[6,0],[0,-3],[0,6]]) fset(px+a,b+50,pz+c,"carved"); }
+  // ferne Spitztürme hinter dem Palast
+  for(const [tx,tz,hh] of [[20,-40,60],[72,-44,70],[46,-70,90],[-10,-80,70],[104,-84,76],[0,-30,40],[92,-28,46]]){ const b=fh(tx,tz); for(let y=b;y<b+hh;y+=3) fset(tx,y,tz, (y/3|0)%5===2 ? "win" : "iceBrick"); for(let k=0;k<6;k++) fset(tx,b+hh+k*3,tz,"spire"); fset(tx,b+hh+18,tz,"lamp"); }
 
-  const creatures = [{ ...polarBear(), at:[riverX(38)-1, RIV+1, 38], yaw:.9, scale:.9 }, { ...polarBear(), at:[riverX(41)+3, RIV+1, 41], yaw:1.6, scale:.5 }];
+  // Frostfüchse und Eisbär laufen herum
+  const creatures = [
+    { ...frostFox({walk:true, speed:10}), orbit:{c:[46,G,52], r:[14,7], speed:.32, ph:0, bob:.15}, scale:.55 },
+    { ...frostFox({walk:true, speed:10, col:0xF4FAFF}), orbit:{c:[46,G,52], r:[14,7], speed:.32, ph:.5, bob:.15}, scale:.5 },
+    { ...frostFox({walk:true, speed:9}), orbit:{c:[30,G,40], r:[9,5], speed:.28, ph:2, bob:.15, dir:-1}, scale:.5 },
+    { ...frostFox({walk:true, speed:11, col:0xDCEEFF}), orbit:{c:[62,G,60], r:[10,6], speed:.35, ph:4, bob:.15, dir:-1}, scale:.5 },
+    { ...frostFox({walk:false}), at:[S.vocabulary.x+7, G, S.vocabulary.z+7], yaw:-.6, scale:.5 },
+    { ...polarBear({walk:true, speed:3.2}), orbit:{c:[S.country.x,G,S.country.z], r:[13,12], speed:.09, ph:1, bob:.08}, scale:.8 }
+  ];
   return {
-    W, D, blocks, spots:S, exposure:1.15, fov:40, creatures,
-    sky:[[0,"#020614"],[.35,"#0A1C44"],[.7,"#1E4A80"],[1,"#5A8AC0"]], fog:[0x22406E, 80, 330],
-    hemi:[0xBFE0FF, 0x2A3A5A, 1.5], sun:{color:0xCFE6FF, int:1.4, pos:[-40,80,70]}, bloom:[.55,.5,.8],
-    lights:[{pos:[S.grammar.x,24,S.grammar.z+8], color:0xFFD27A, int:360, dist:40},
-            {pos:[S.vocabulary.x-2,13,S.vocabulary.z-1], color:0xC8A0FF, int:240, dist:22},
-            {pos:[S.country.x,16,S.country.z], color:0xFFD27A, int:300, dist:32, flicker:true},
-            {pos:[46,14,50], color:0xFFD27A, int:140, dist:22}],
-    ribbons:[{w:260, h:30, pos:[W/2,80,-120], rot:[.1,0,0], color:0x4AF0A0, opacity:.3}, {w:220, h:22, pos:[W/2-20,96,-150], rot:[.1,.2,0], color:0x8A6AF0, opacity:.24}],
-    particles:[{n:800, area:[-30,W+30,0,70,-30,D+30], vy:-2.4, wob:1.2, color:0xFFFFFF, size:.24, opacity:.9},
-               {n:300, area:[-200,W+200,90,200,-260,-120], vy:0, wob:0, color:0xFFFFFF, size:1.4, blink:.6},
-               {n:200, area:[0,W,4,40,0,D], vy:0, wob:.2, color:0xBFF8FF, size:.12, add:true, twinkle:true}],
-    puffs:[{n:18, pos:[14,22,-176], dx:60, dy:30, dz:0, s0:30, s1:26, color:0xF2F6FF, opacity:.7, speed:.006, spread:24, flat:.9, ry:30},
-           {n:10, pos:[20,20,-120], dx:60, dy:8, dz:0, s0:30, s1:24, color:0xDDE8F8, opacity:.45, speed:.008, spread:40, flat:.5}],
-    home:{pos:[W/2,42,D+66], look:[W/2,22,D/2-12]}, homePortrait:{pos:[W/2,52,D+110], look:[W/2,30,D/2-12]},
-    ui:{bg:"rgba(10,26,54,.88)", border:"#8AE6FF", glow:"rgba(138,230,255,.5)", text:"#EAF6FF", sub:"#A8C8E6", accent:"#8AE6FF", "accent-ink":"#06182E", chip:"rgba(8,22,46,.82)"}
+    W, D, blocks, spots:S, exposure:.95, fov:42, creatures,
+    sky:[[0,"#1E4A8A"],[.4,"#4A80C0"],[.75,"#8AB8E4"],[1,"#BCD8F0"]], fog:[0x7EA6D2, 80, 290],
+    hemi:[0xCFE6FF, 0x22406E, 1.05], sun:{color:0xEAF6FF, int:1.25, pos:[-40,90,70]}, bloom:[.35,.45,.85],
+    lights:[{pos:[46,G+12,40], color:0x7FE6FF, int:200, dist:34},
+            {pos:[S.vocabulary.x,G+5,S.vocabulary.z+6], color:0xC8A0FF, int:180, dist:22},
+            {pos:[S.country.x,G+8,S.country.z], color:0xBFF4FF, int:180, dist:24}],
+    rays:{n:16, color:0xFFFFFF, area:[16,76,0,40], y:60, len:100},
+    particles:[{n:800, area:[-30,W+30,0,80,-30,D+30], vy:-2.2, wob:1.2, color:0xFFFFFF, size:.24, opacity:.9},
+               {n:260, area:[0,W,4,50,0,D], vy:0, wob:.25, color:0xBFF8FF, size:.14, add:true, twinkle:true},
+               {n:160, area:[30,62,G+14,G+40,24,36], vy:.6, wob:.4, color:0x9AF0FF, size:.22, add:true, twinkle:true}],
+    puffs:[{n:18, pos:[-40,G+2,10], dx:170, dy:2, dz:20, s0:20, s1:18, color:0xD8E8F8, opacity:.3, speed:.01, spread:50, flat:.35},
+           {n:12, pos:[10,50,-40], dx:70, dy:20, dz:0, s0:30, s1:30, color:0xFFFFFF, opacity:.45, speed:.008, spread:40, flat:.7}],
+    home:{pos:[W/2,34,D+62], look:[W/2,30,D/2-14]}, homePortrait:{pos:[W/2,40,D+116], look:[W/2,34,D/2-14]},
+    ui:{bg:"rgba(10,30,62,.86)", border:"#8AE6FF", glow:"rgba(138,230,255,.55)", text:"#EAF6FF", sub:"#A8C8E6", accent:"#8AE6FF", "accent-ink":"#06182E", chip:"rgba(8,26,54,.8)"}
   };
 }

diff --git a/lernwelt/welten/tiere.js b/lernwelt/welten/tiere.js
@@ -130,15 +130,41 @@ export function unicorn(){
 }
 
 /* ---------- Eisbär (Eiswelt) ---------- */
-export function polarBear(){
-  const F=0xF2EEE0, F2=0xE4DECC, DARK=0x1A1A1A;
+export function polarBear(o={}){
+  const F=0xF2EEE0, F2=0xE4DECC, DARK=0x1A1A1A, step=o.walk ? (o.speed||5) : 0;
   const body = M(); body.ell(0,5,0,4.5,2.6,2.4,(x,y,z)=> (x+y+z)%4===0 ? F2 : F);
-  body.ell(-1,6,0,2,2.6,2.4,F);
-  for(const [lx,lz] of [[2.5,-1.5],[2.5,1.5],[-2.5,-1.5],[-2.5,1.5]]){ body.box(lx,0,lz,lx+1,3,lz+(lz>0?-1:1)*0,F); body.box(lx,0,lz,lx+1,0,lz,F2); }
-  body.put(-5,6,0,F);
+  body.ell(-1,6,0,2,2.6,2.4,F); body.put(-5,6,0,F);
   const head = M(); head.ell(6,6,0,1.8,1.5,1.4,F).box(8,5,-1,9,6,1,F).put(10,6,0,DARK).put(10,5,0,F2);
   head.put(8,7,-1,DARK).put(8,7,1,DARK).put(5,8,-1,F2).put(5,8,1,F2);
-  return { parts:[ part(body,[0,0,0]), part(head,[4,6,0],["y",.4,.6,0]) ] };
+  const parts = [ part(body,[0,0,0]), part(head,[4,6,0], step ? ["z",.12,step,0] : ["y",.4,.6,0]) ];
+  [[2.5,-1.5,0],[2.5,1.5,Math.PI],[-2.5,-1.5,Math.PI],[-2.5,1.5,0]].forEach(([lx,lz,ph])=>{ const l=M().box(lx,0,lz,lx+1,3,lz,F).box(lx,0,lz,lx+1,0,lz,F2); parts.push(part(l,[lx+.5,3.5,lz], step?["z",.45,step,ph]:null)); });
+  return { parts };
+}
+
+/* ---------- Hirsch (Waldwelt) ---------- */
+export function stag(){
+  const BR=0x8A5A32, BR2=0x7A4E2A, LIGHT=0xD8B88A, WHITE=0xF4EEE2, ANT=0xE8D6B0, DARK=0x2A1A10;
+  const body = M(); body.ell(0,7,0,4,2,1.7,(x,y,z)=> y<6 ? LIGHT : ((x+y+z)%4===0?BR2:BR));
+  for(const [lx,lz] of [[2.6,-1],[2.6,1],[-2.6,-1],[-2.6,1]]){ body.box(lx,1,lz,lx,5,lz,BR2); body.put(lx,0,lz,DARK); }
+  body.put(-4,8,0,WHITE).put(-5,8,0,WHITE).put(-5,9,0,BR);
+  body.seg([3,8,0],[5,11,0],1.3,1,BR);
+  const head = M(); head.box(5,11,-1,7,13,1,BR).box(8,11,-1,9,12,1,BR2).put(10,11,0,DARK).put(8,13,-1,DARK).put(8,13,1,DARK).put(7,13,-2,LIGHT).put(7,13,2,LIGHT);
+  head.put(6,14,-2,BR).put(6,14,2,BR);
+  for(const s of [-1,1]){ head.line([6,14,s],[5,18,3*s],ANT).line([5,18,3*s],[4,22,4*s],ANT).line([5,16,2*s],[8,18,2*s],ANT).line([5,19,3*s],[7,21,4*s],ANT).line([4,20,4*s],[2,22,5*s],ANT).line([4,22,4*s],[5,24,4*s],ANT); }
+  const tail = M().put(-5,9,0,BR).put(-5,8,0,WHITE);
+  return { parts:[ part(body,[0,0,0]), part(head,[5,11,0],["z",.28,.7,0,-.25]), part(tail,[-4,9,0],["y",.5,3,0]) ] };
+}
+
+/* ---------- Frostfuchs (Eiswelt) ---------- */
+export function frostFox(o={}){
+  const F=o.col||0xEAF4FF, F2=0xC8DEF4, TIP=0x9ACCF0, DARK=0x1A2230, step=o.walk ? (o.speed||9) : 0;
+  const body = M(); body.ell(0,4,0,3,1.4,1.2,(x,y,z)=> (x+y)%3===0 ? F2 : F);
+  const head = M(); head.ell(4,5,0,1.4,1.2,1.1,F).box(5,4,0,7,4,0,F).put(7,5,0,F).put(8,4,0,DARK).put(5,6,-1,DARK).put(5,6,1,DARK);
+  head.box(3,6,-1,3,8,-1,F2).box(3,6,1,3,8,1,F2).put(3,8,-1,TIP).put(3,8,1,TIP);
+  const tail = M().seg([-3,5,0],[-6,6,0],1.1,1.5,F).seg([-6,6,0],[-8,5,0],1.5,1,TIP);
+  const parts = [ part(body,[0,0,0]), part(head,[3,5,0],["y",.15,step||1.2,0]), part(tail,[-3,5,0],["y",.35,step?step*.5:1.5,0]) ];
+  [[2,-1,0],[2,1,Math.PI],[-2,-1,Math.PI],[-2,1,0]].forEach(([lx,lz,ph])=>{ const l=M().box(lx,0,lz,lx,3,lz,F2).put(lx,0,lz,TIP); parts.push(part(l,[lx,3,lz], step?["z",.7,step,ph]:null)); });
+  return { parts };
 }
 
 /* ---------- Zwerge (Steinwelt) ---------- */

diff --git a/lernwelt/welten/wald.js b/lernwelt/welten/wald.js
@@ -1,5 +1,5 @@
 // Klasse 9 · Woodlands – Elbenstadt in Riesenbäumen: Baumhäuser auf Plattformen, Hängebrücken, Wasserfälle, Mondbrunnen, Nebel und Glühwürmchen
-import { unicorn, bird } from "./tiere.js";
+import { stag, bird } from "./tiere.js";
 export function build(A){
   const { rand, fbm, pick, set, get, fill, walls, disk, ring, cyl, tube, ball, ellip, dome, cone, line, topAt, terrain, tex, P, noise, stripes, bricks, rings, topEdge, planks, glassT } = A;
   const T = {
@@ -166,7 +166,7 @@ export function build(A){
   for(let i=0;i<28;i++){ const x=-150+rand()*(W+340), z=-170+rand()*(D+200); const aw=away(x,z); if(aw<14 || z>D+10 && Math.abs(x-W/2)<W*.7) continue; farTree(x,z, 4+Math.floor(rand()*2)*3, 46+Math.floor(rand()*36)); }
 
   // Glühwürmchen, Nebel, Lichtstrahlen, Einhorn, Vögel
-  const creatures = [{ ...unicorn(), at:[S.vocabulary.x+1, 13, S.vocabulary.z-5], yaw:.35, scale:.85 }];
+  const creatures = [{ ...stag(), at:[S.vocabulary.x+1, 13, S.vocabulary.z-5], yaw:.35, scale:.75 }];
   for(let i=0;i<6;i++) creatures.push({ ...bird(0xF4F0DC), orbit:{c:[48+i*2,52+(i%3)*2,22+(i%2)*4], r:[44,26], speed:.11, ph:i*.15, bob:1}, scale:.5, noShadow:true });
   return {
     W, D, blocks, spots:S, exposure:1.18, fov:40, creatures,

diff --git a/lernwelt/welten/himmel.js b/lernwelt/welten/himmel.js
@@ -127,7 +127,7 @@ export function build(A){
   for(const [x,y,z,r,d] of [[-44,30,-24,9,"tree"],[146,38,-14,10,"tower"],[96,52,-74,12,"fall"],[0,46,-94,9,"tree"],[-96,26,40,8,"fall"],[186,30,58,9,"tree"],[60,64,-150,14,"tower"],[-120,58,-110,12,"tree"],[230,50,-60,11,"fall"],[-70,40,-48,6,"tower"]]) farIsland(x,y,z,r,d);
 
   // Riesiger Adler und kleine Vögel
-  const creatures = [{ ...eagle(), orbit:{c:[46,40,-26], r:[88,30], speed:.07, ph:.2, bob:3, bank:-.3}, scale:1.7 },
+  const creatures = [{ ...eagle(), orbit:{c:[46,46,16], r:[30,22], speed:.11, ph:3.6, bob:2, bank:-.32}, scale:.85 },
                      { ...eagle(), orbit:{c:[60,70,-90], r:[90,40], speed:.06, ph:3, bob:4, bank:-.25}, scale:1.2, noShadow:true }];
   for(let i=0;i<9;i++) creatures.push({ ...bird(i%3?0xFFFFFF:0xE8EEF8), orbit:{c:[46+(i%3)*2,30+(i%4),30+(i%2)*3], r:[40,24], speed:.12, ph:i*.1, bob:1}, scale:.5, noShadow:true });
   const ship=[]; for(let a=-4;a<=4;a++){ ship.push([a,0,0,0xC08A50],[a,0,1,0xC08A50],[a,0,-1,0xC08A50]); for(let b=-2;b<=2;b++) for(let c=-2;c<=2;c++) if((a/4.6)**2+(b/2.2)**2+(c/2.2)**2<=1) ship.push([a,4+b,c, (a+8)%3?0xF4F4F4:0x3A78E0]); }
